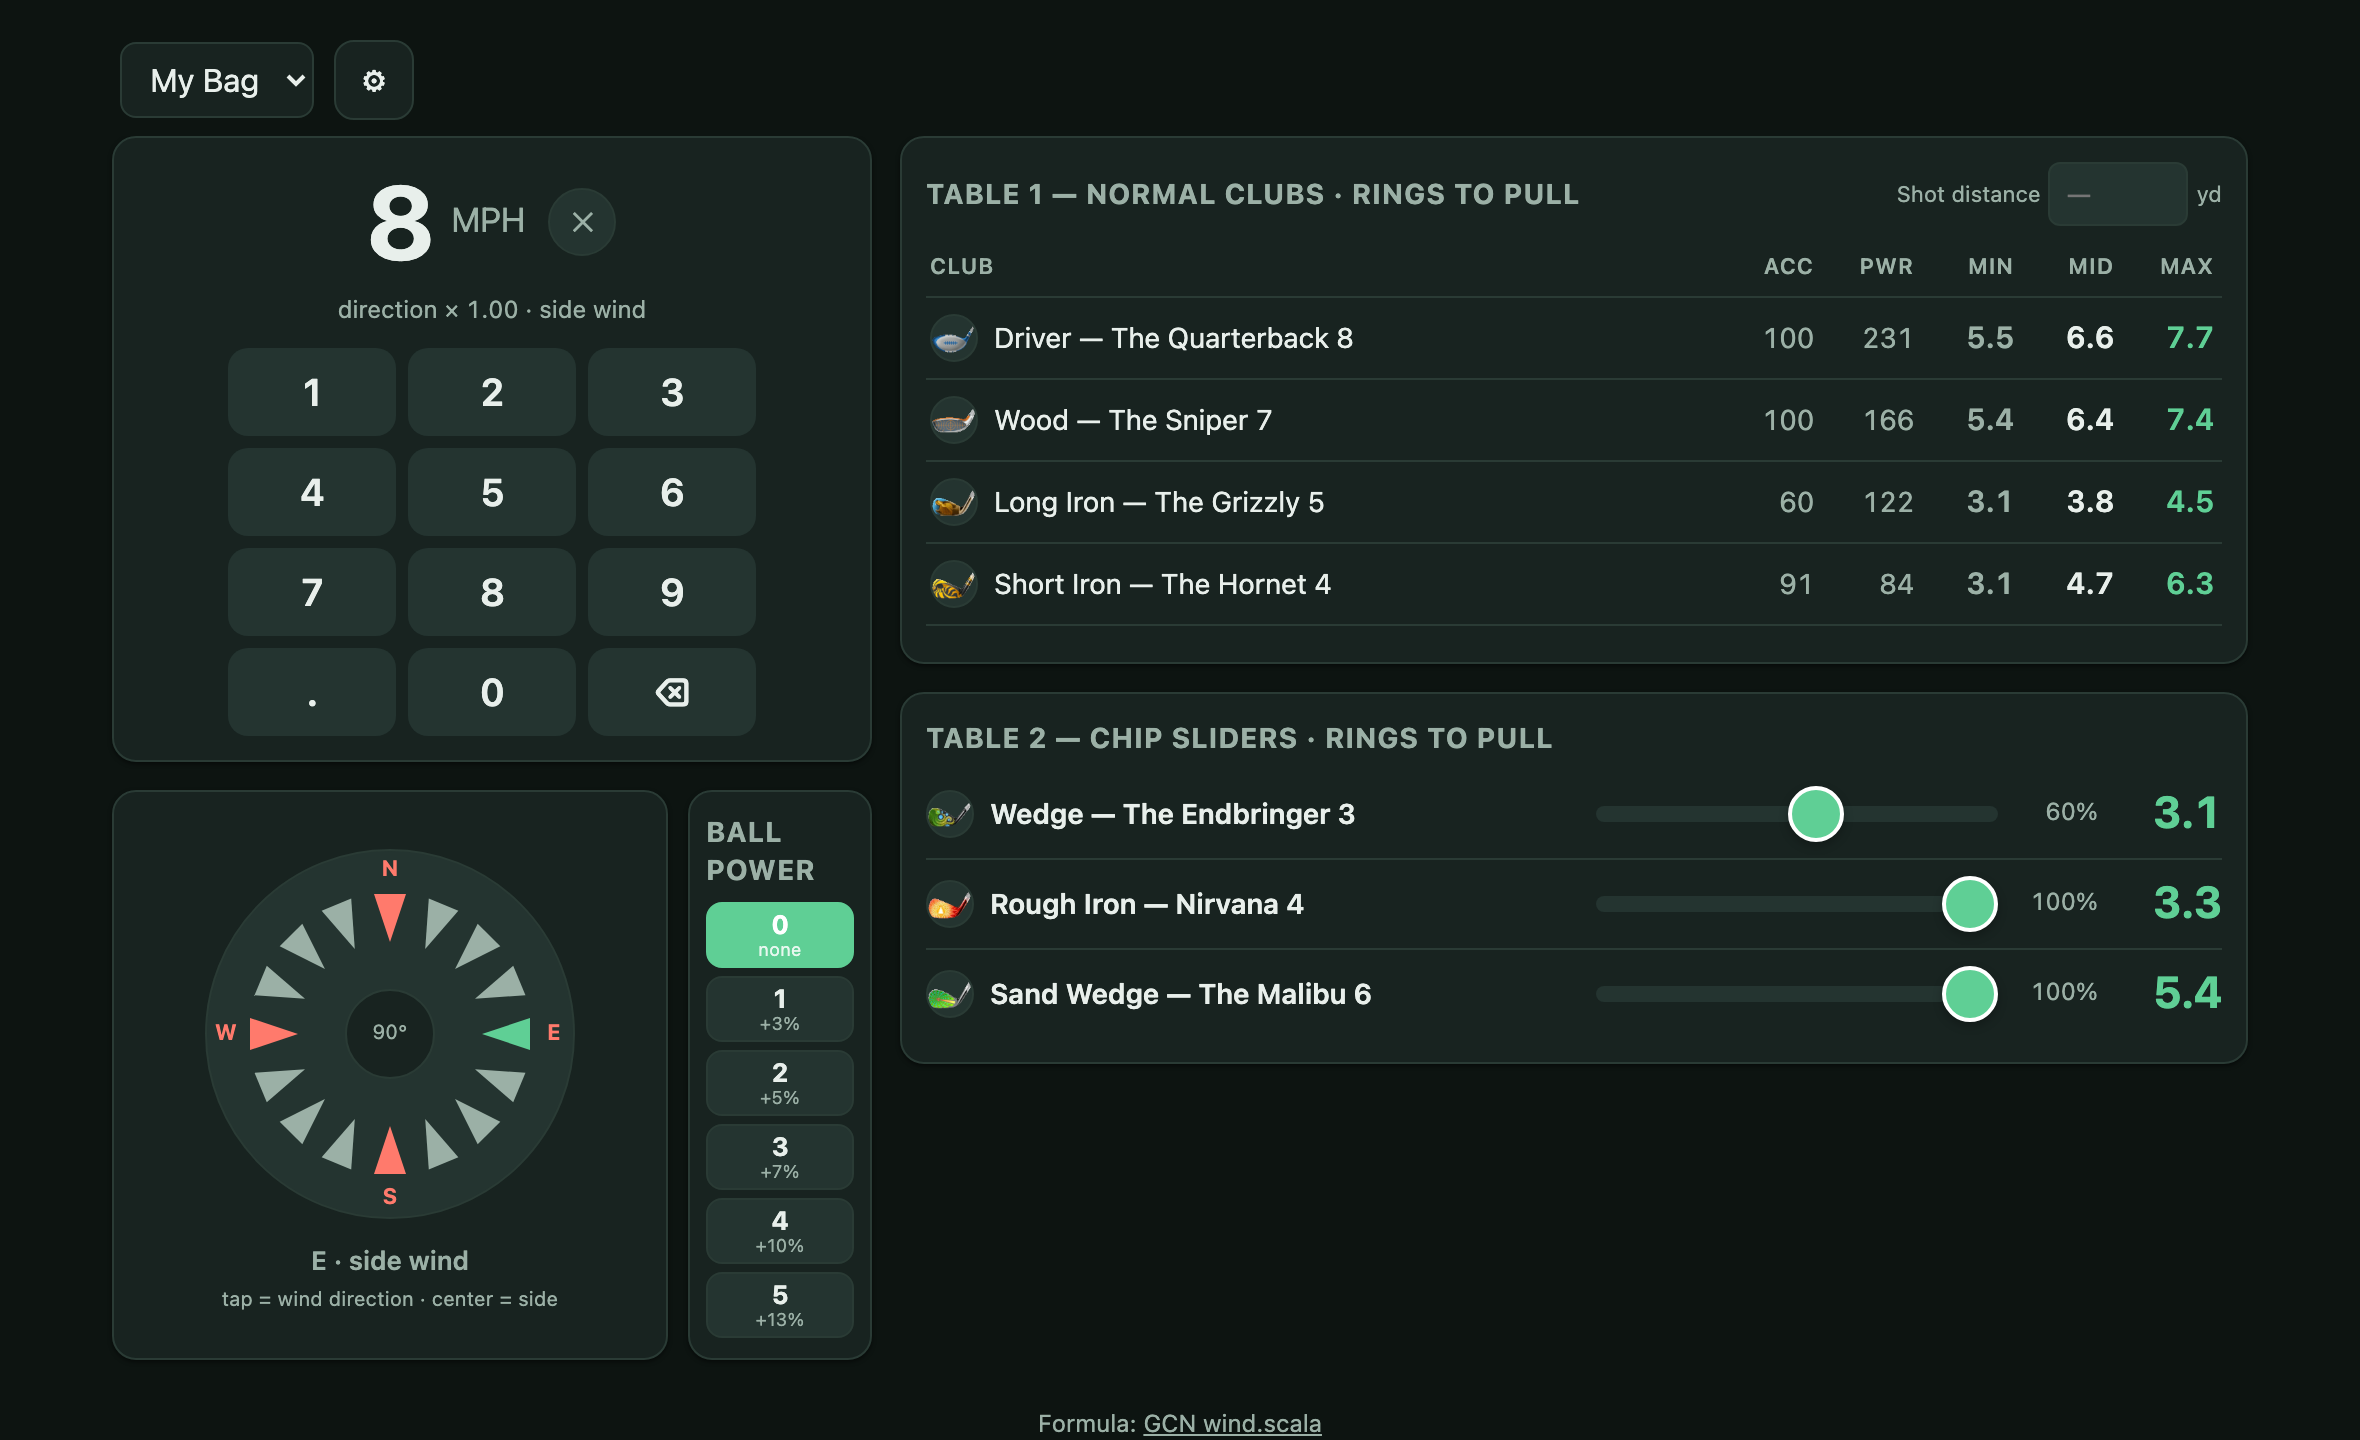
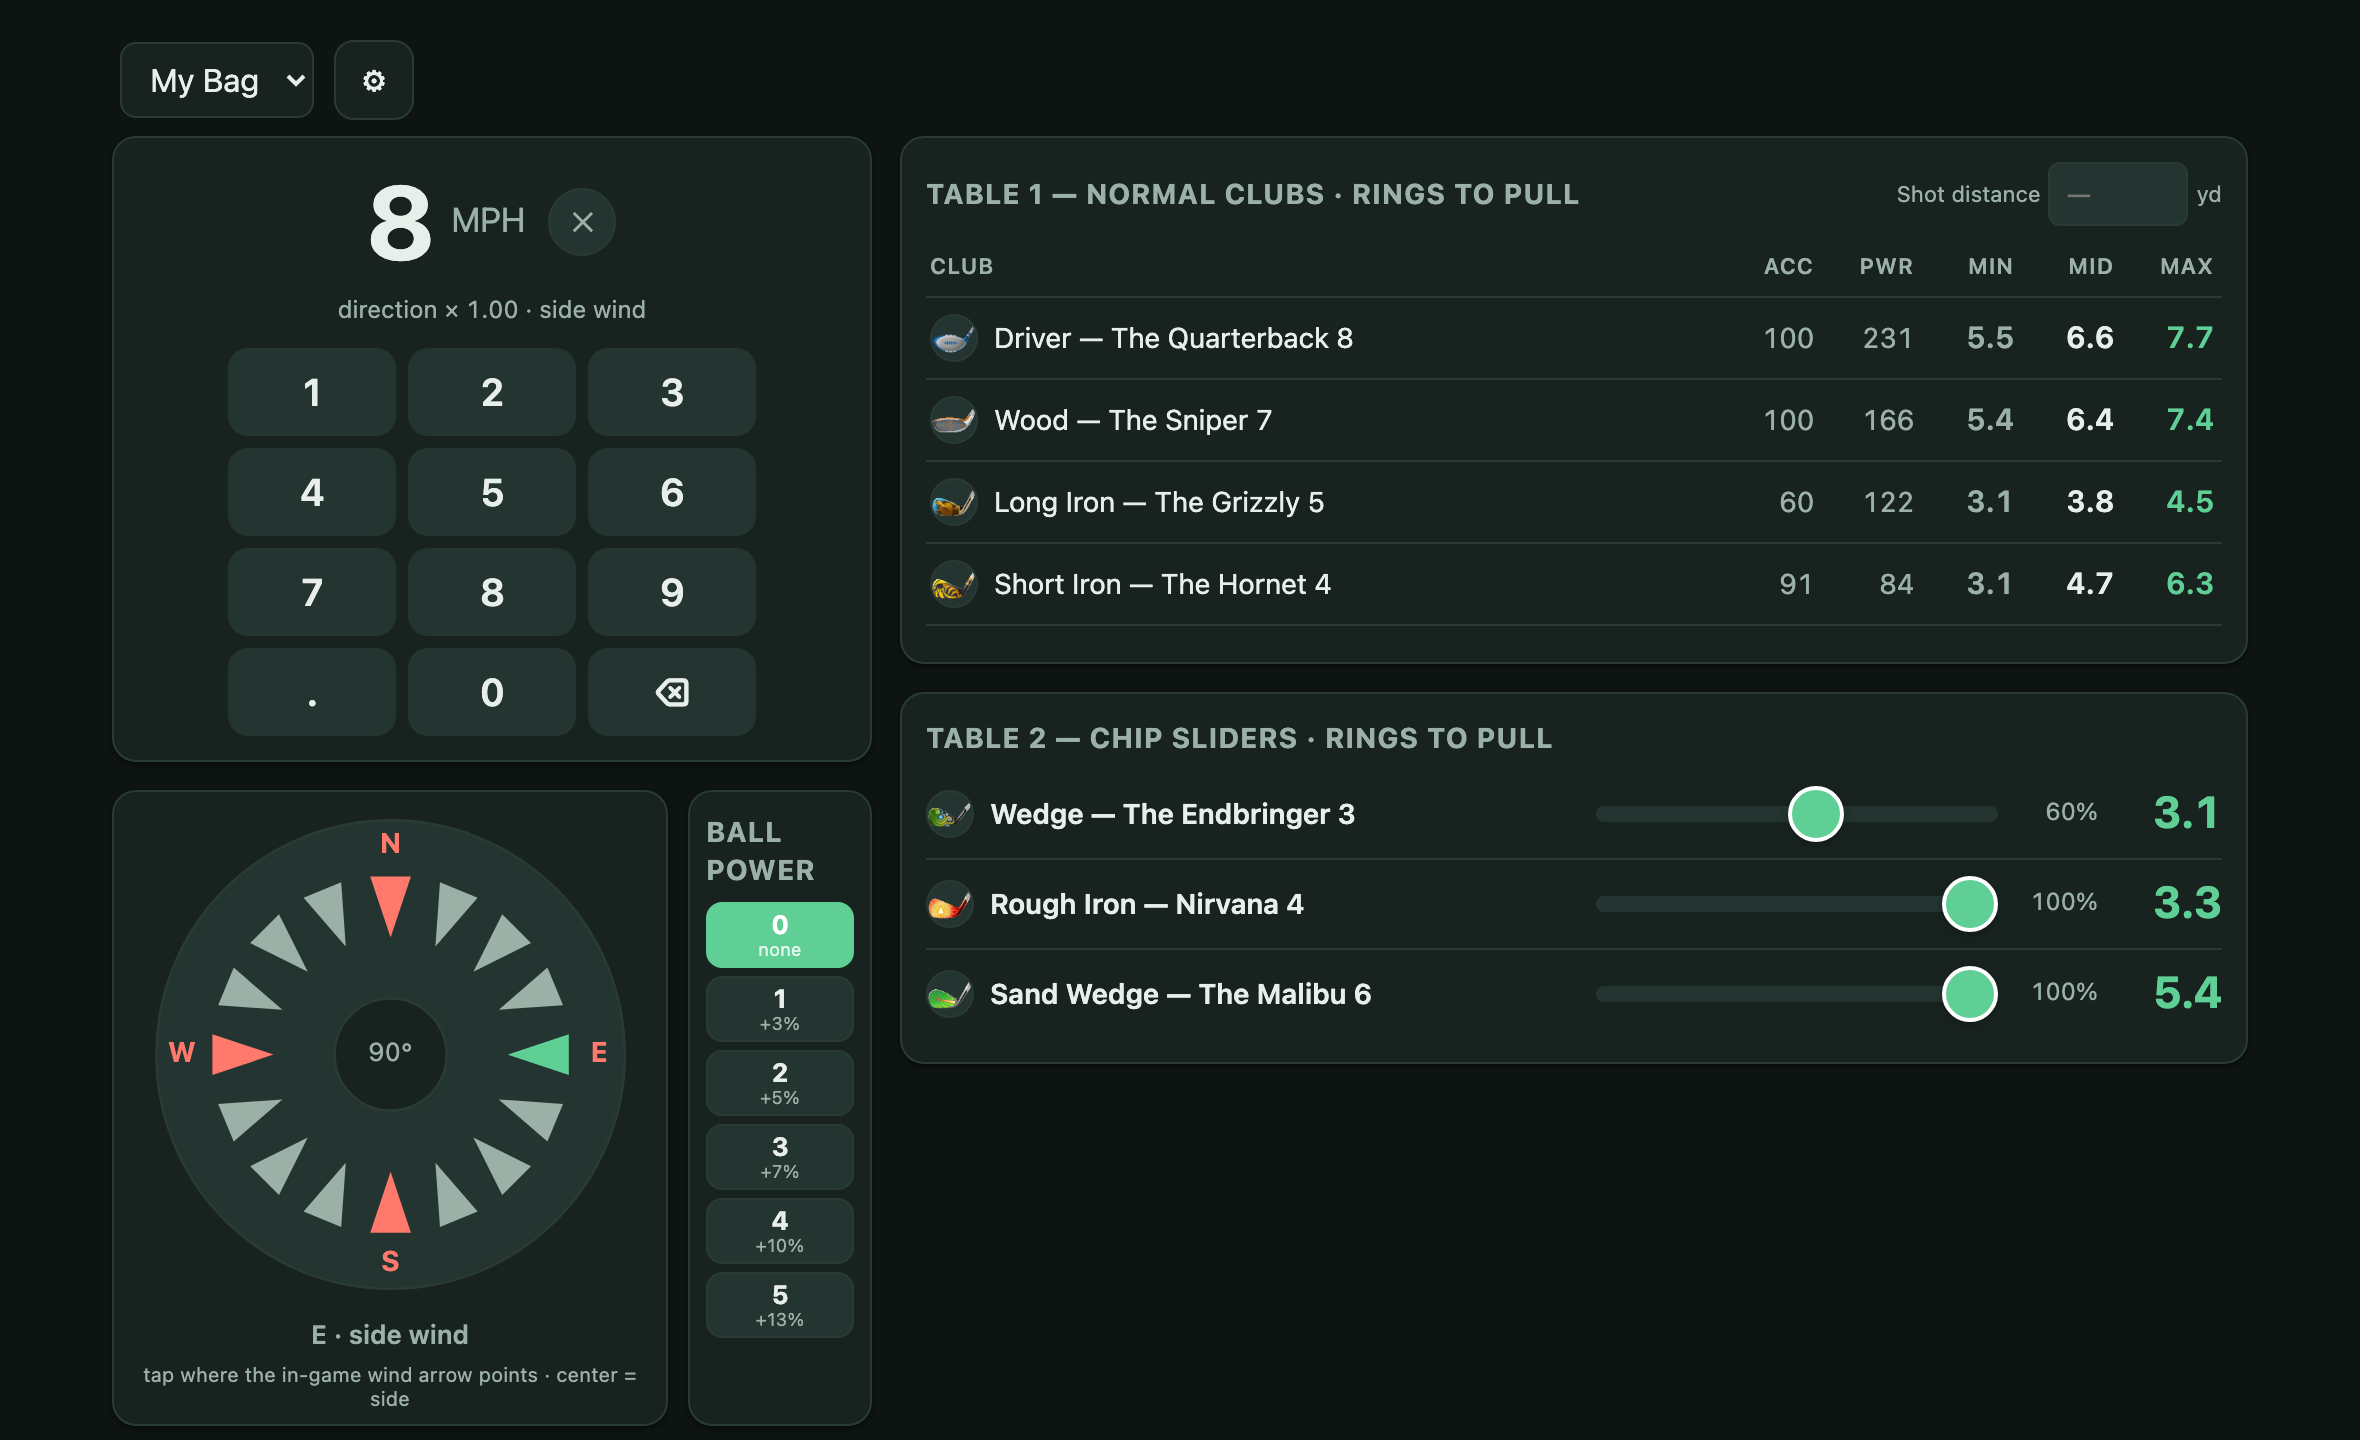
Fix wind math: pure crosswind |sin|, flip direction convention, bigger compass
Three corrections from in-game testing:

1) The 0.6 floor for head/tail wind was wrong. The user observed a
   Sniper-at-MID, 8.8 MPH tailwind shot where the app recommended 4.2
   ring pull and the ball flew much farther than expected. Math was
   internally consistent (8.8 × 0.8 × 0.6 = 4.22), but the FORMULA
   over-compensates: pure tail/head wind has zero lateral component,
   so ring adjustment should be 0. Tail/head wind extends/shortens
   carry — handle with slider or club, not rings.

   Changed directionFactor from `0.6 + 0.4 × |sin|` to `|sin|`. Now:
     pure side (90/270°)    → 1.0  full ring effect
     diagonal (45°)          → 0.71 partial
     pure head/tail (0/180°) → 0    no rings

2) Compass click convention reversed. The user expects to tap where the
   in-game wind ARROW POINTS (= where wind is GOING), not where the
   wind comes FROM. Swapped dirCategory so:
     tap N → "tailwind"  (wind blowing N, player faces N, wind at back)
     tap S → "headwind"  (wind blowing S, ball gets blown into face)
   The lateral math is symmetric so directionFactor is unchanged by
   the flip; only the LABELS change.

3) Compass was too small inside its card — switched to width:95% +
   aspect-ratio:1 with max 320px, so the dial scales to fill whatever
   column width the layout gives it.

Dynamic compass hint added: refreshDirReadouts() rewrites the hint
text based on direction category:
  - side / quartering: "tap where the in-game wind arrow points"
[…]

Changed region(s): [[0.0619, 0.5938, 0.2475, 1.0], [0.4331, 0.9688, 0.5568, 1.0]]

diff --git a/index.html b/index.html
@@ -192,15 +192,18 @@
     .numpad button:active { transform: scale(0.95); background: var(--accent-soft); }
     .numpad .clr { color: var(--warn); font-size: 15px; }
 
-    /* Compass — tight padding so the dial isn't floating in empty space */
+    /* Compass — fill the card. Uses % width + aspect-ratio so the dial
+       scales with whatever the card column gives it, capped at a
+       readable max so it doesn't get absurd on ultra-wide containers. */
     .compass-wrap { display: flex; flex-direction: column; align-items: center;
-      justify-content: center; gap: 2px; padding: 6px 6px 8px; }
+      justify-content: center; gap: 2px; padding: 4px 4px 6px; }
     .compass {
-      width: 170px; height: 170px; max-width: 70vw; max-height: 70vw;
+      width: 95%;
+      max-width: 320px;
+      aspect-ratio: 1 / 1;
+      height: auto;
       display: block;
     }
-    @media (min-width: 600px) { .compass { width: 180px; height: 180px; } }
-    @media (min-width: 900px) { .compass { width: 200px; height: 200px; } }
     .compass-hint { font-size: 10px; color: var(--text-dim); text-align: center;
       line-height: 1.25; margin-top: 2px; }
     .compass-dir { font-weight: 600; font-size: 13px; margin-top: 2px; }
@@ -654,18 +657,28 @@
       return (actualCarry * BALL_COEF[ballPower]) /
              (CATEGORY_MAX[category] * base * catMult * corr);
     }
+    // Rings compensate for the LATERAL component of wind only — the
+    // sideways push on the ball. Head/tail wind extends/shortens carry
+    // distance (handle with slider or club, not rings). So the factor
+    // is the pure crosswind component: |sin(angle)|.
+    //   pure side (90° / 270°) -> 1.0  (full ring adjustment)
+    //   pure head/tail (0° / 180°) -> 0  (no ring adjustment)
+    //   diagonal (45°) -> 0.707 (~70% of full effect)
     function directionFactor(deg) {
-      return 0.6 + 0.4 * Math.abs(Math.sin(deg * Math.PI / 180));
+      return Math.abs(Math.sin(deg * Math.PI / 180));
     }
     function compassName(deg) {
       const names = ["N","NNE","NE","ENE","E","ESE","SE","SSE","S","SSW","SW","WSW","W","WNW","NW","NNW"];
       const i = Math.round(((deg % 360) + 360) % 360 / 22.5) % 16;
       return names[i];
     }
+    // dir = the direction the wind is BLOWING toward (i.e., where the
+    // in-game wind arrow points). So tapping N means "wind goes north",
+    // i.e. the player faces north with wind at their back = TAILWIND.
     function dirCategory(deg) {
       const a = Math.abs(((deg + 180) % 360) - 180);
       const lateral = Math.abs(Math.sin(deg * Math.PI / 180));
-      if (lateral < 0.2) return a < 90 ? "headwind" : "tailwind";
+      if (lateral < 0.2) return a < 90 ? "tailwind" : "headwind";
       if (lateral > 0.8) return "side wind";
       return "quartering";
     }
@@ -738,9 +751,7 @@
 
       // mph display
       $("#mph-value").textContent = state.inputs.mph || "0";
-      $("#dir-mult").textContent = directionFactor(state.inputs.dir).toFixed(2);
-      $("#dir-name").textContent = dirCategory(state.inputs.dir);
-      $("#compass-dir").textContent = compassName(state.inputs.dir) + " · " + dirCategory(state.inputs.dir);
+      refreshDirReadouts();
       $("#pin-yd").value = state.inputs.pinYd || "";
 
       renderCompass();
@@ -1185,11 +1196,30 @@
       state.inputs.dir = deg;
       saveInputs();
       renderCompass();
-      $("#dir-mult").textContent = directionFactor(deg).toFixed(2);
-      $("#dir-name").textContent = dirCategory(deg);
-      $("#compass-dir").textContent = compassName(deg) + " · " + dirCategory(deg);
+      refreshDirReadouts();
       renderTable1();
       updateChipLiveValues();
+    }
+
+    // Update all direction-derived UI (factor display, category name,
+    // compass-dir below the dial, and the dynamic hint that switches
+    // between "tap = wind direction" and "head/tail = slider, not rings").
+    function refreshDirReadouts() {
+      const deg = state.inputs.dir;
+      const f = directionFactor(deg);
+      const cat = dirCategory(deg);
+      $("#dir-mult").textContent = f.toFixed(2);
+      $("#dir-name").textContent = cat;
+      $("#compass-dir").textContent = compassName(deg) + " · " + cat;
+      const hintEl = $(".compass-hint");
+      if (!hintEl) return;
+      if (cat === "headwind") {
+        hintEl.innerHTML = 'headwind · ball flies short — <strong>raise slider</strong> or longer club';
+      } else if (cat === "tailwind") {
+        hintEl.innerHTML = 'tailwind · ball flies long & rolls more — <strong>lower slider</strong>';
+      } else {
+        hintEl.textContent = "tap where the in-game wind arrow points · center = side";
+      }
     }
 
     function onBallPower(bp) {

diff --git a/sw.js b/sw.js
@@ -3,7 +3,7 @@
 //   - Navigations (HTML): network-first with cache fallback → always fresh online,
 //     but works offline. Avoids stale UI after deploys.
 //   - Static assets (clubs.js, icons, manifest): cache-first.
-const CACHE = "gc-wind-v3";
+const CACHE = "gc-wind-v4";
 const SHELL = [
   "./",
   "./index.html",

diff --git a/build_screenshots.py b/build_screenshots.py
@@ -102,11 +102,13 @@ def main():
         page.close()
 
         # 2. Play view with a Shot distance entered — shows the
-        # recommendation card and the highlighted club row.
+        # recommendation card and the highlighted club row. Uses side
+        # wind (deg=90, E) so the recommendation card has non-zero
+        # rings to demonstrate the feature.
         page = new_page(p, 1180, 760)
         seed_and_open(
             page, [SEED_BAG],
-            {"mph": "12", "dir": 180, "pinYd": "160", "sliders": {"Wedges": 60, "RoughIrons": 100, "SandWedges": 100}},
+            {"mph": "12", "dir": 90, "pinYd": "160", "sliders": {"Wedges": 60, "RoughIrons": 100, "SandWedges": 100}},
         )
         shoot(page, "02-play-with-pin")
         page.close()

diff --git a/README.md b/README.md
@@ -115,7 +115,7 @@ rings_per_mph = actual_carry ÷ ( category_max
 | `rule_based_correction` | 0.9 for B52 / Grizzly at level ≥ 5, else 1.0 |
 | ball power coefficient | 1.00 / 1.03 / 1.05 / 1.07 / 1.10 / 1.13 — multiplies `actual_carry` |
 
-Final rings to pull = `rings_per_mph × wind_mph × direction_factor`. Direction factor is 1.0 for pure side wind, 0.6 for pure head/tail, interpolating with `0.6 + 0.4 × |sin(angle)|`.
+Final rings to pull = `rings_per_mph × wind_mph × direction_factor`, where `direction_factor = |sin(angle)|` (pure crosswind component): **1.0 at pure side wind, 0 at pure head/tail.** Head/tail wind extends/shortens carry distance — that's a slider/club adjustment, not a ring pull. The compass labels each direction so you can see at a glance whether to use rings (side) or slider (head/tail).
 
 **Sources:**
 - [wind.scala (canonical formula)](https://github.com/golf-clash-notebook/golf-clash-notebook.github.io/blob/dev/modules/site/src/main/scala/golfclash/notebook/wind.scala)
